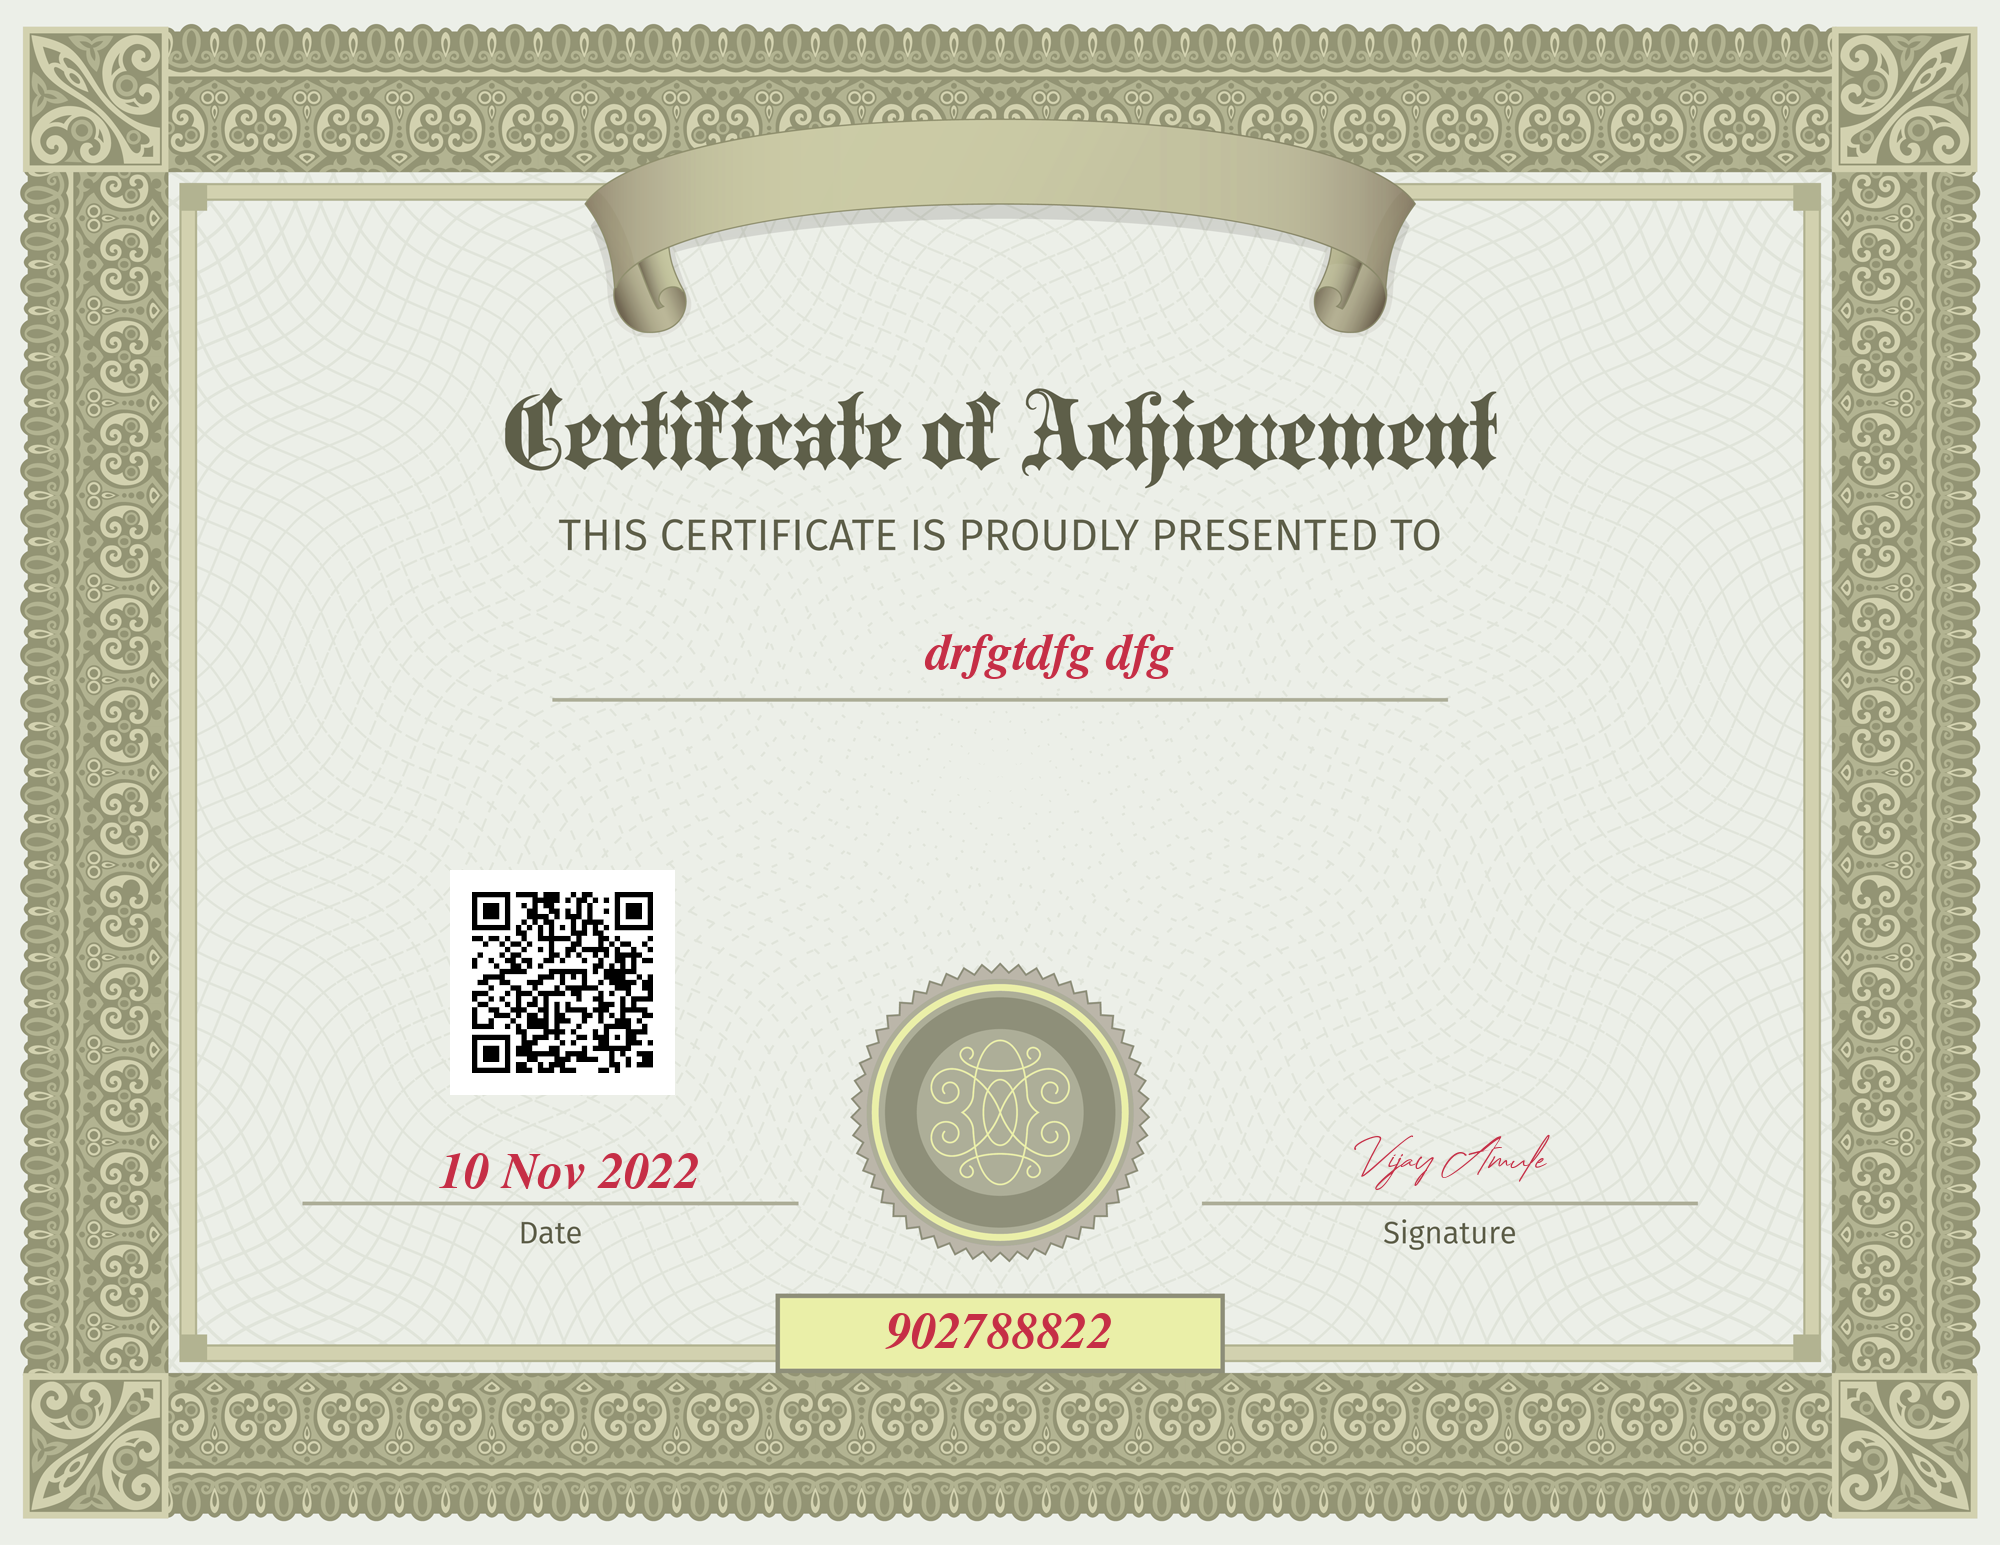
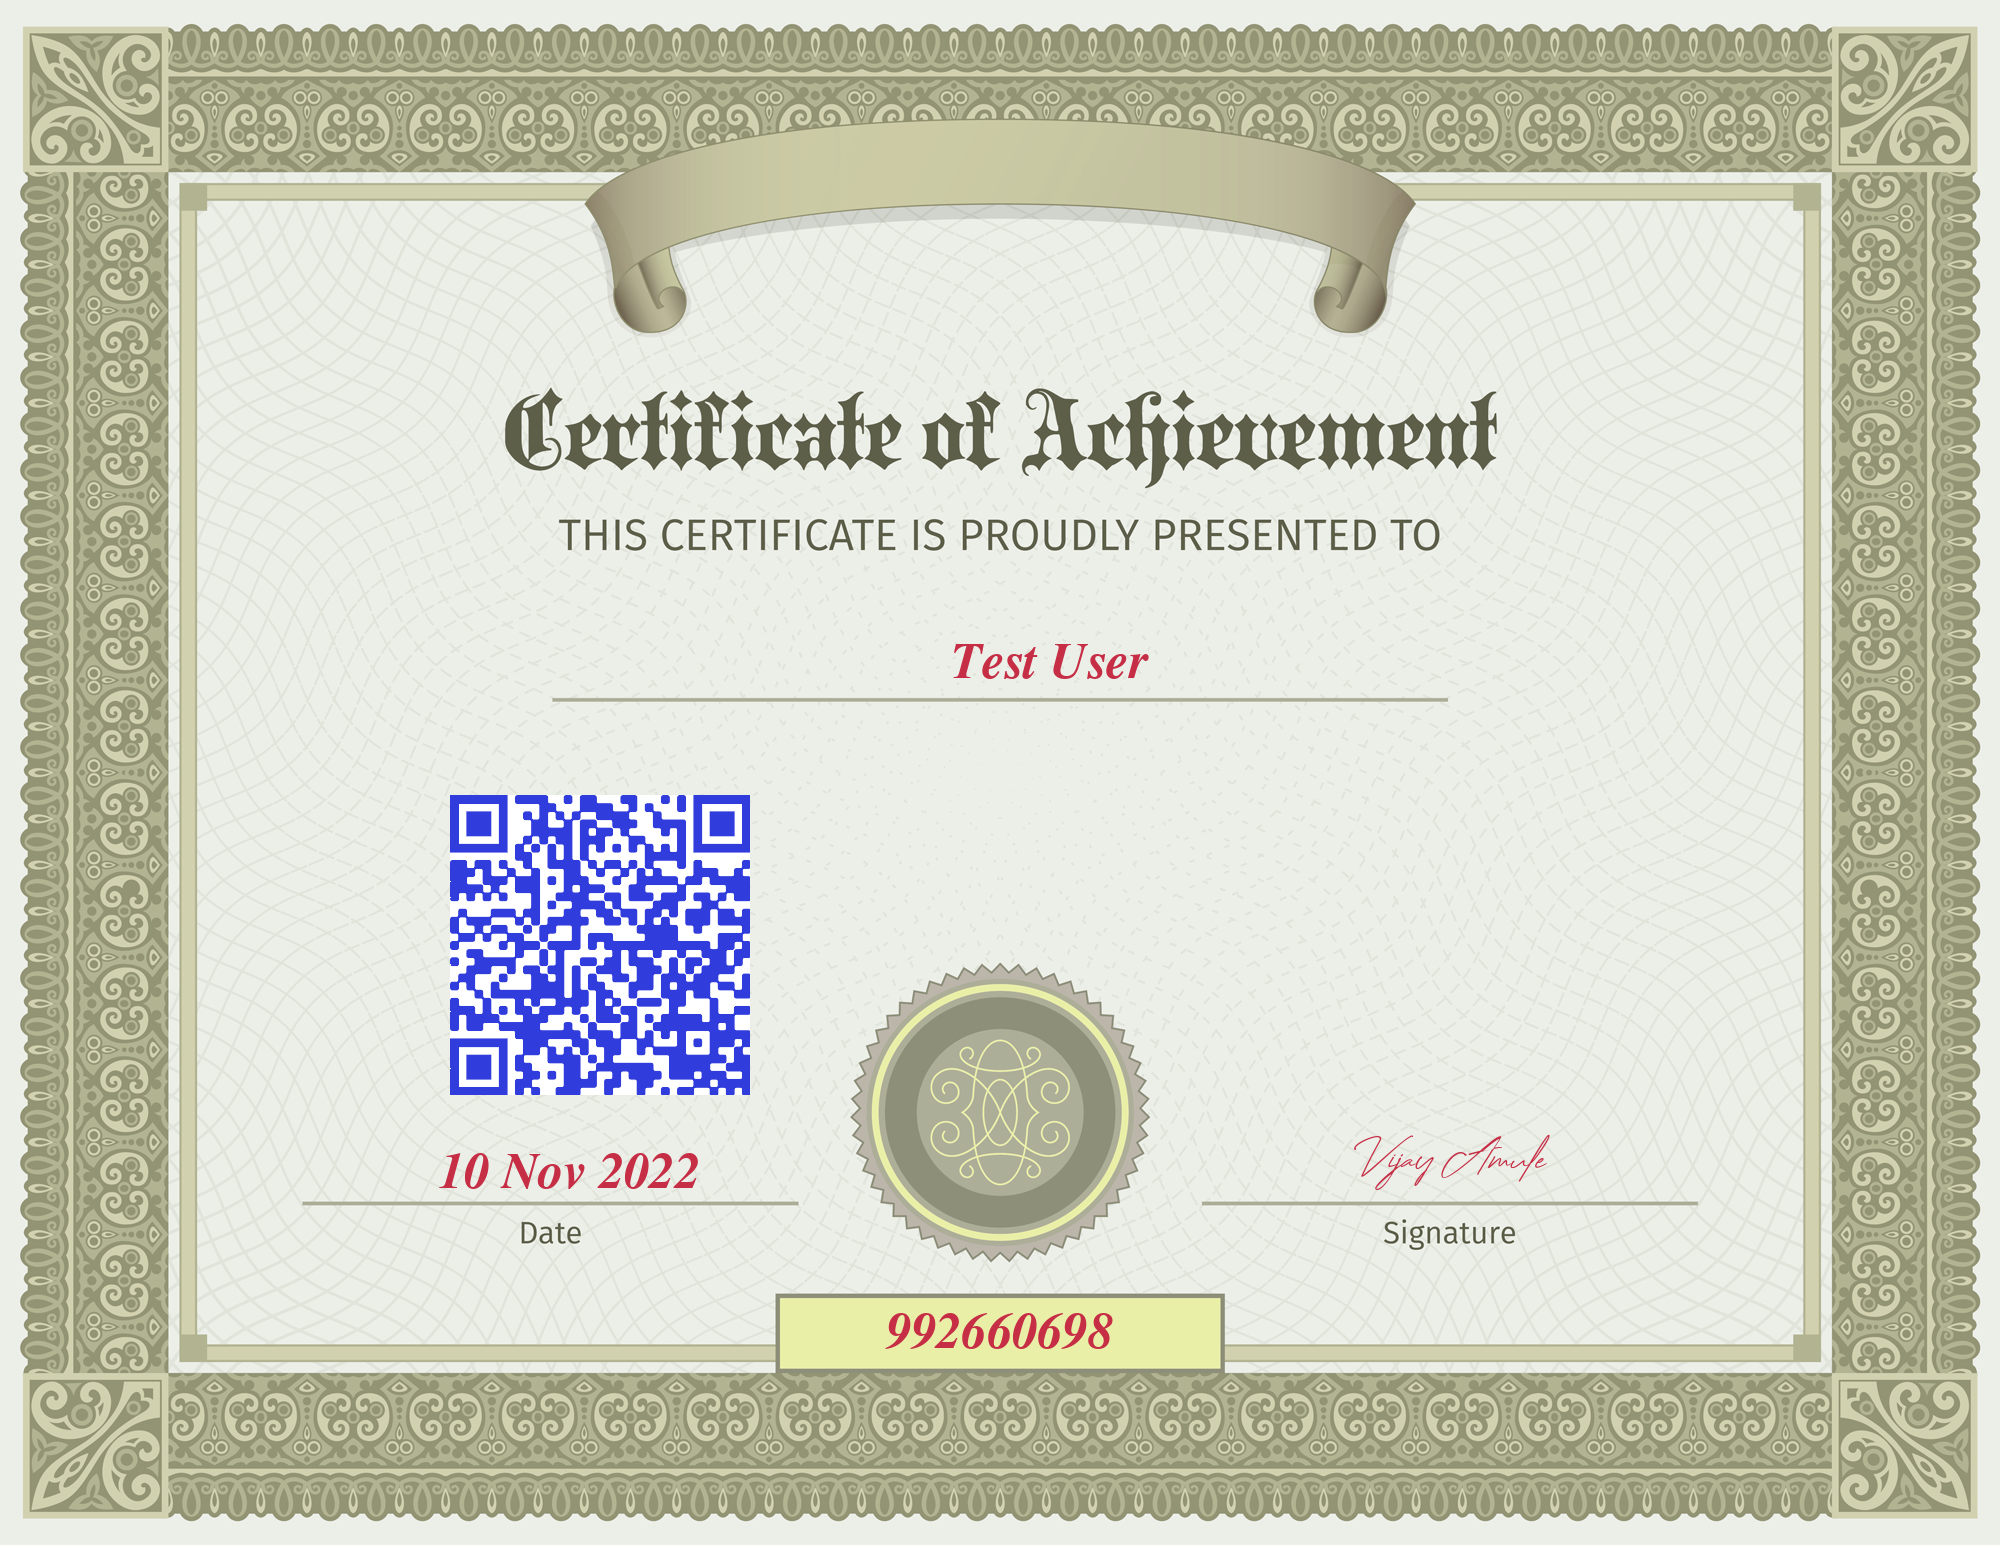
insert qr code

Changed region(s): [[0.217, 0.4971, 0.372, 0.7146], [0.465, 0.4039, 0.589, 0.435], [0.465, 0.8388, 0.558, 0.8699]]

diff --git a/app/Http/Controllers/CertificateController.php b/app/Http/Controllers/CertificateController.php
@@ -51,9 +51,12 @@ class CertificateController extends Controller
             $font->valign('bottom');
             $font->angle(0);
         });
-        QrCode::size(500)
+        QrCode::size(300)
             ->format('png')
-            ->generate('Name : '.$name.' Certificate No. : '.$cer_no.' Date : '.$date, public_path('image/qrcode.png'));
+            ->color(49, 60, 221)
+            ->style('round')
+            ->eye('square')
+            ->generate('Name : ' . $name . ', Certificate No. : ' . $cer_no . ', Date : ' . $date . ' Verified Certificate.', public_path('image/qrcode.png'));
         $img->insert(public_path('image/qrcode.png'), 'bottom-left', 450, 450);
         $img->save(public_path('image/certificate1.png'));
         return view('cerificate');
